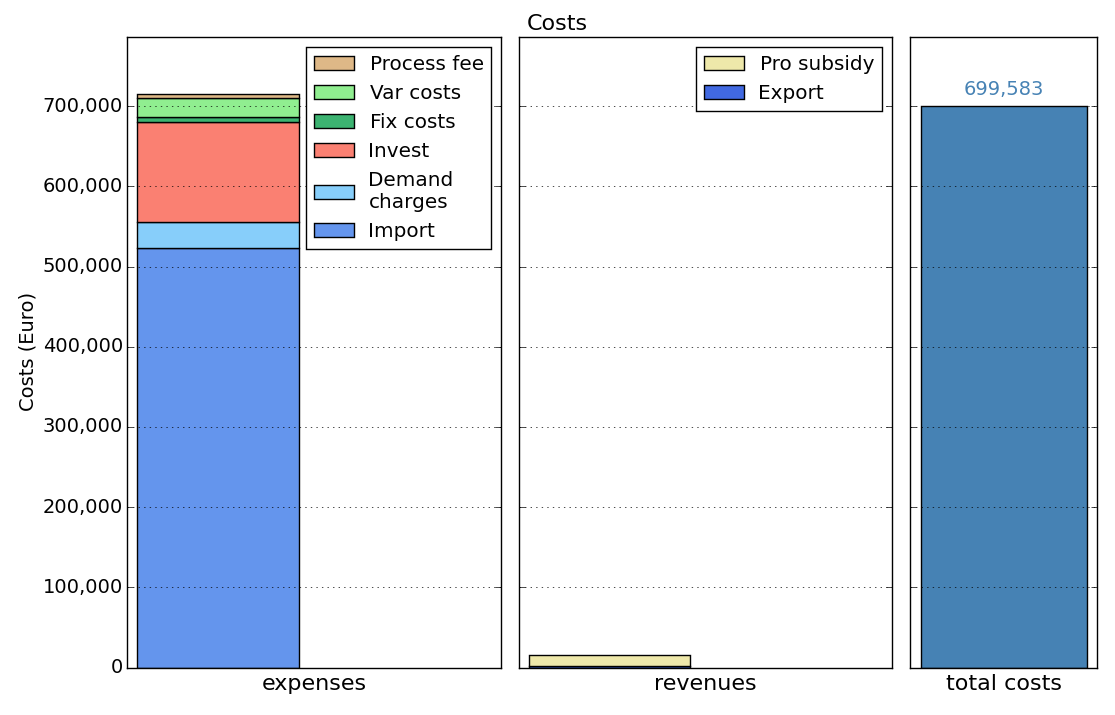
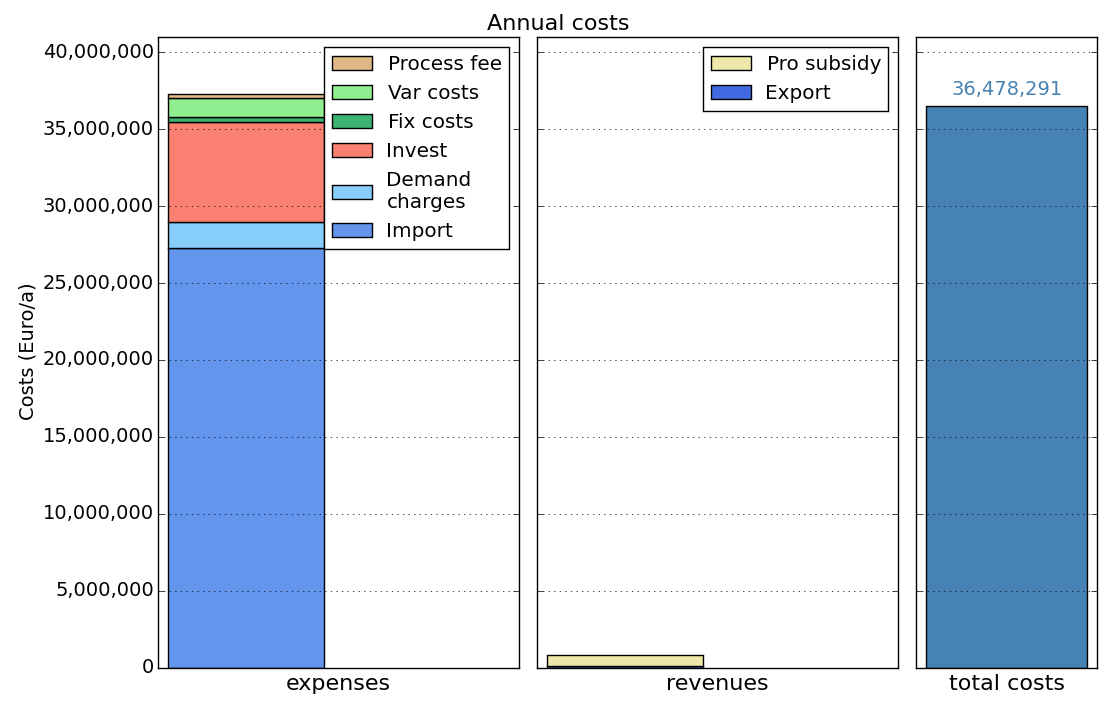
annualized costs

diff --git a/ficus.py b/ficus.py
@@ -1029,52 +1029,52 @@ def create_model(data):
 			return m.costs[cost_type] == \
 				sum(m.pro_cap_new[p] * \
 					process.loc[p]['cost-inv'] * \
-					process.loc[p]['annuity_factor'] * year_factor\
+					process.loc[p]['annuity_factor']\
 					for p in m.pro_tuples)\
 				+sum(m.sto_cap_p_new[s] * 
 						storage.loc[s]['cost-inv-p'] * 
-						storage.loc[s]['annuity_factor']  * year_factor\
+						storage.loc[s]['annuity_factor']\
 					+m.sto_cap_e_new[s] * 
 						storage.loc[s]['cost-inv-e'] * 
-						storage.loc[s]['annuity_factor'] * year_factor\
+						storage.loc[s]['annuity_factor']\
 					for s in m.sto_tuples)
 		
 		#operation independent costs = capacity * cost_fix
 		elif cost_type == 'Fix costs':
 			return m.costs[cost_type] == \
-				sum(m.pro_cap[p] * process.loc[p]['cost-fix'] * year_factor\
+				sum(m.pro_cap[p] * process.loc[p]['cost-fix']\
 					for p in m.pro_tuples)\
 				+sum(m.sto_cap_p[s] * storage.loc[s]['cost-fix-p']
 					+m.sto_cap_e[s] * storage.loc[s]['cost-fix-e'] 
-					for s in m.sto_tuples) * year_factor
+					for s in m.sto_tuples)
 		
 		# Variable costs dependent on energy through process/storage = sum(t)[cost_var * energy(t)] 
 		elif cost_type == 'Var costs':
 			return m.costs[cost_type] == \
 				sum(m.pro_p_flow[p,t] * p2e \
 					*process.loc[p]['cost-var']\
-					for t in m.t for p in m.pro_tuples)\
+					for t in m.t for p in m.pro_tuples)/year_factor\
 				+sum((m.sto_p_in[s,t] + m.sto_p_out[s,t]) * p2e * storage.loc[s]['cost-var']
-					for t in m.t for s in m.sto_tuples)
+					for t in m.t for s in m.sto_tuples)/year_factor
 		
 		#costs for external import = sum(t) [ p_ext) * price(t)]
 		elif cost_type == 'Import':	
 			return m.costs[cost_type] == \
 				sum(m.ext_p_in[c,t]*p2e \
 					* (ext_import.loc[t][c])\
-					for t in m.t for c in m.co_ext_in)
+					for t in m.t for c in m.co_ext_in)/year_factor
 		
 		#costs for export = sum(t) [- p_ext_export(t) * price(t)]
 		elif cost_type == 'Export':	
 			return m.costs[cost_type] == \
 				-sum( m.ext_p_out[c,t] * p2e * ext_export.loc[t][c]\
-					for t in m.t for c in m.co_ext_out)	
+					for t in m.t for c in m.co_ext_out)/year_factor
 		
 		# Costs for grid use = p_max * power_price
 		elif cost_type == 'Demand charges':
 			return m.costs[cost_type] == \
-				sum(m.ext_demandrate_max[c] * ext_co.loc[c]['demand-rate']  * year_factor\
-					for c in m.co_ext_in )	
+				sum(m.ext_demandrate_max[c] * ext_co.loc[c]['demand-rate']\
+					for c in m.co_ext_in )
 					
 		# Costs for process fee
 		elif cost_type == 'Process fee':
@@ -1082,22 +1082,22 @@ def create_model(data):
 					sum(m.proclass_e_in[procl] * process_class.loc[procl]['fee']\
 						for procl in m.proclass_tuples\
 						if process_class.loc[procl]['Direction']=='In'\
-						if process_class.loc[procl]['fee']>0)\
+						if process_class.loc[procl]['fee']>0)/year_factor\
 					+sum(m.proclass_e_out[procl] * process_class.loc[procl]['fee']
 						for procl in m.proclass_tuples\
 						if process_class.loc[procl]['Direction']=='Out'\
-						if process_class.loc[procl]['fee']>0)
+						if process_class.loc[procl]['fee']>0)/year_factor
 		# Costs for process subsidies
 		elif cost_type == 'Pro subsidy':
 				return m.costs[cost_type] == \
 					sum(m.proclass_e_in[procl] * process_class.loc[procl]['fee']\
 						for procl in m.proclass_tuples\
 						if process_class.loc[procl]['Direction']=='In'\
-						if process_class.loc[procl]['fee']<0)\
+						if process_class.loc[procl]['fee']<0)/year_factor\
 					+sum(m.proclass_e_out[procl] * process_class.loc[procl]['fee']
 						for procl in m.proclass_tuples\
 						if process_class.loc[procl]['Direction']=='Out'\
-						if process_class.loc[procl]['fee']<0)			
+						if process_class.loc[procl]['fee']<0)/year_factor			
 		else:
 			raise NotImplementedError("Unknown cost type!")					
 	m.cost_sum = pyen.Constraint(
@@ -2344,7 +2344,7 @@ def plot_costs(prob = None, resultfile = None, fontsize=16,show=True):
 	# FIGURE
 	fig = plt.figure(figsize=(11,7))
 	gs = mpl.gridspec.GridSpec(2, 3, height_ratios=[0.01,10], width_ratios = [2,2,1])
-	fig.suptitle('Costs',fontsize=fontsize)
+	fig.suptitle('Annual costs',fontsize=fontsize)
 		
 	ax0 = plt.subplot(gs[3])
 	ax1 = plt.subplot(gs[4],sharey=ax0)
@@ -2373,7 +2373,7 @@ def plot_costs(prob = None, resultfile = None, fontsize=16,show=True):
 				numpoints = 1)
 	handles, labels = ax0.get_legend_handles_labels()
 	ax0.legend(handles[::-1], labels[::-1]) # reverse the order
-	ax0.set_ylabel('Costs (Euro)', fontsize=fontsize-2)
+	ax0.set_ylabel('Costs (Euro/a)', fontsize=fontsize-2)
 	ax0.set_ylim(0,max(costs[costs>0].sum(),costs[costs<0].sum())*1.1)
 	
 	#Set ax1 properties and legend	
